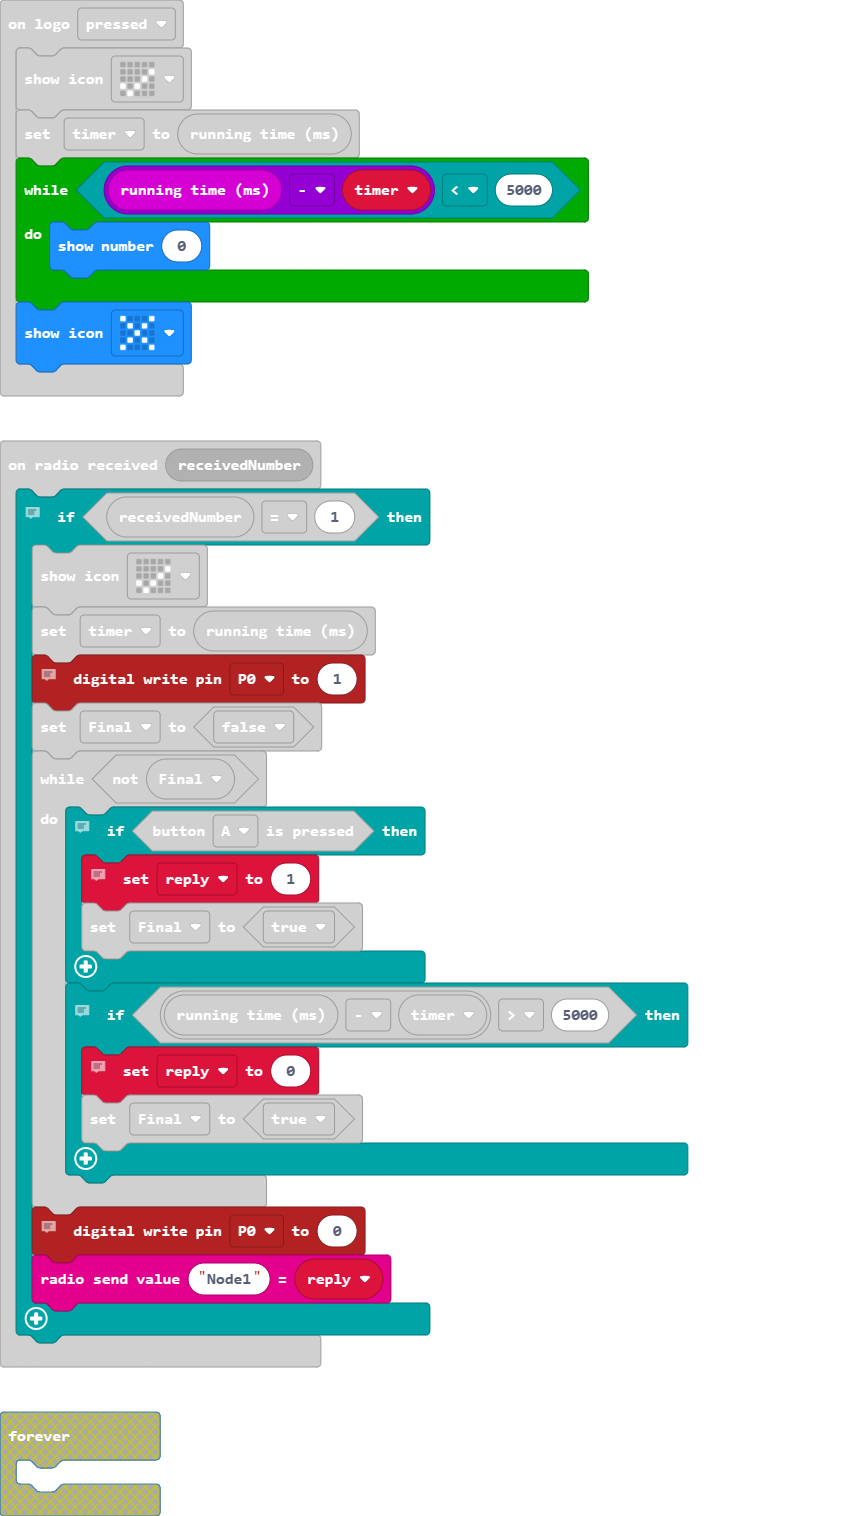
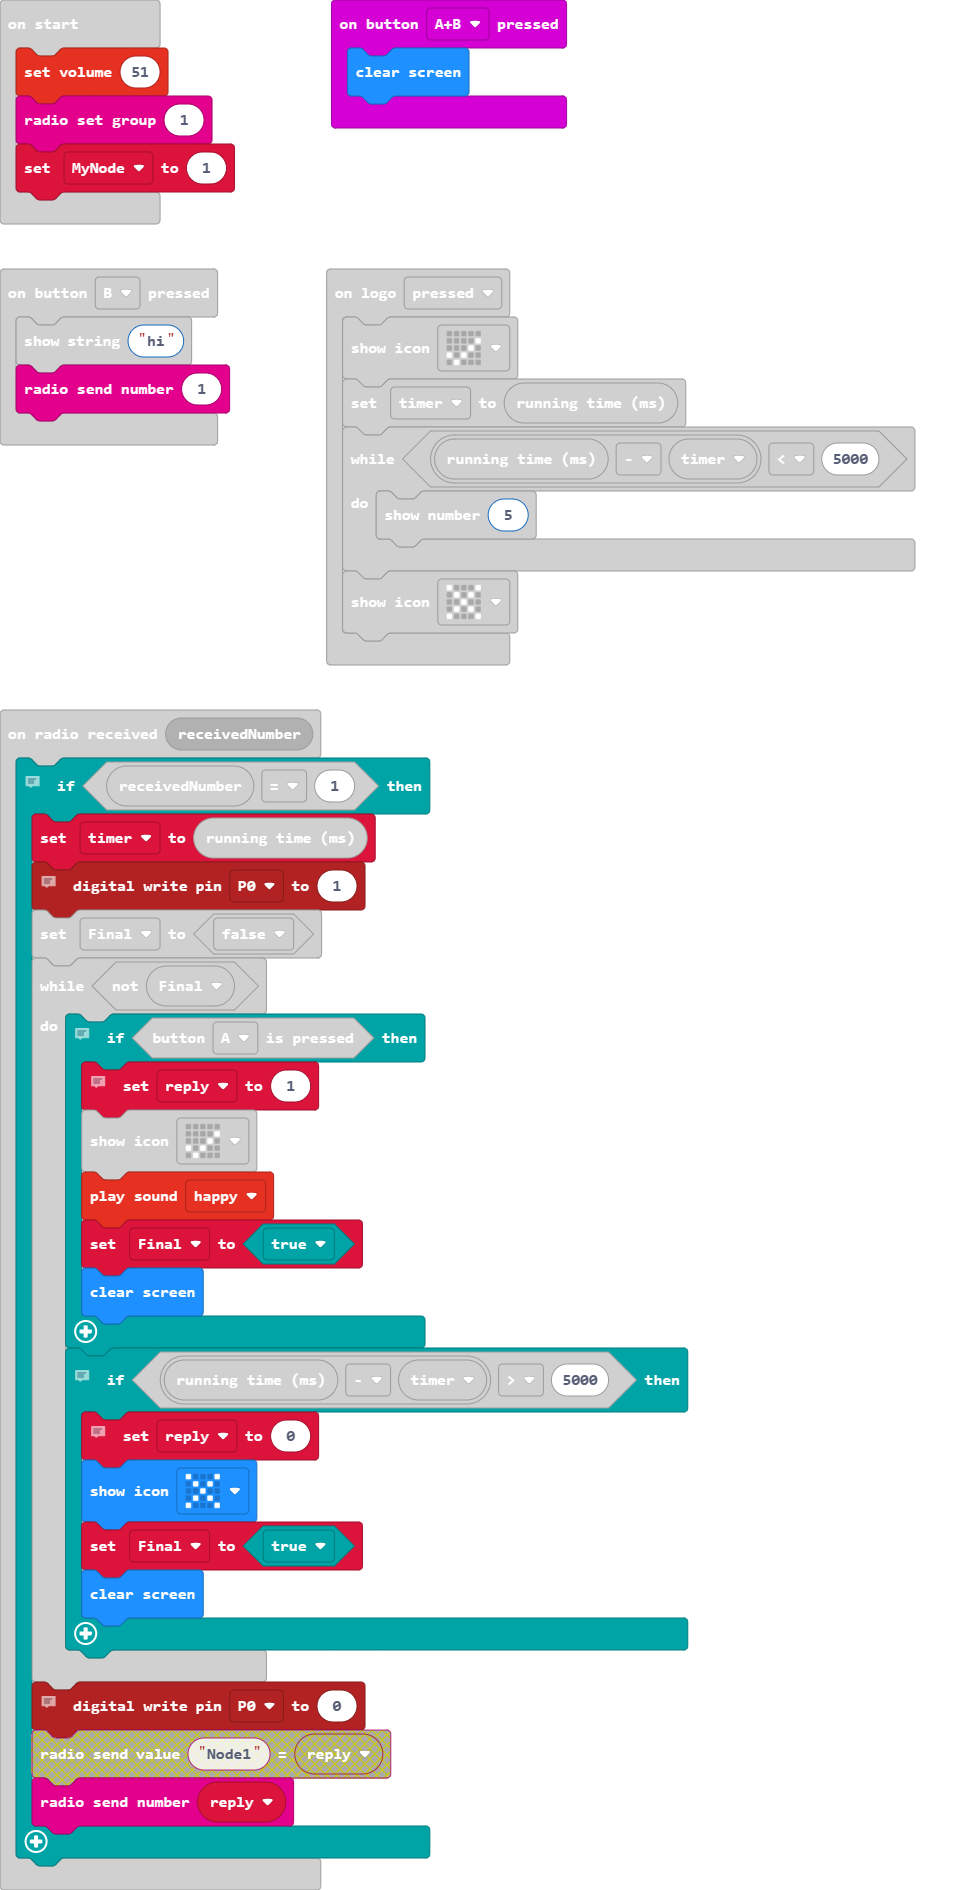
Update main.blocks, main.ts

diff --git a/main.ts b/main.ts
@@ -1,7 +1,6 @@
 radio.onReceivedNumber(function (receivedNumber) {
     // It's me
     if (receivedNumber == 1) {
-        basic.showIcon(IconNames.Yes)
         timer = input.runningTime()
         // Turn on the led
         pins.digitalWritePin(DigitalPin.P0, 1)
@@ -11,33 +10,43 @@ radio.onReceivedNumber(function (receivedNumber) {
             if (input.buttonIsPressed(Button.A)) {
                 // KO=0
                 reply = 1
+                basic.showIcon(IconNames.Yes)
+                soundExpression.happy.play()
                 Final = true
+                basic.clearScreen()
             }
             // If timeout Final=KO
             if (input.runningTime() - timer > 5000) {
                 // KO=0
                 reply = 0
+                basic.showIcon(IconNames.No)
                 Final = true
+                basic.clearScreen()
             }
         }
         // Turn on the led
         pins.digitalWritePin(DigitalPin.P0, 0)
-        radio.sendValue("Node1", reply)
+        radio.sendNumber(reply)
     }
 })
+input.onButtonPressed(Button.AB, function () {
+    basic.clearScreen()
+})
 input.onButtonPressed(Button.B, function () {
-    basic.showString("Hello!")
+    basic.showString("hi")
+    radio.sendNumber(1)
 })
 input.onLogoEvent(TouchButtonEvent.Pressed, function () {
     basic.showIcon(IconNames.Yes)
     timer = input.runningTime()
     while (input.runningTime() - timer < 5000) {
-        basic.showNumber(0)
+        basic.showNumber(5)
     }
     basic.showIcon(IconNames.No)
 })
 let reply = 0
 let Final = false
 let timer = 0
+music.setVolume(51)
 radio.setGroup(1)
 let MyNode = 1
